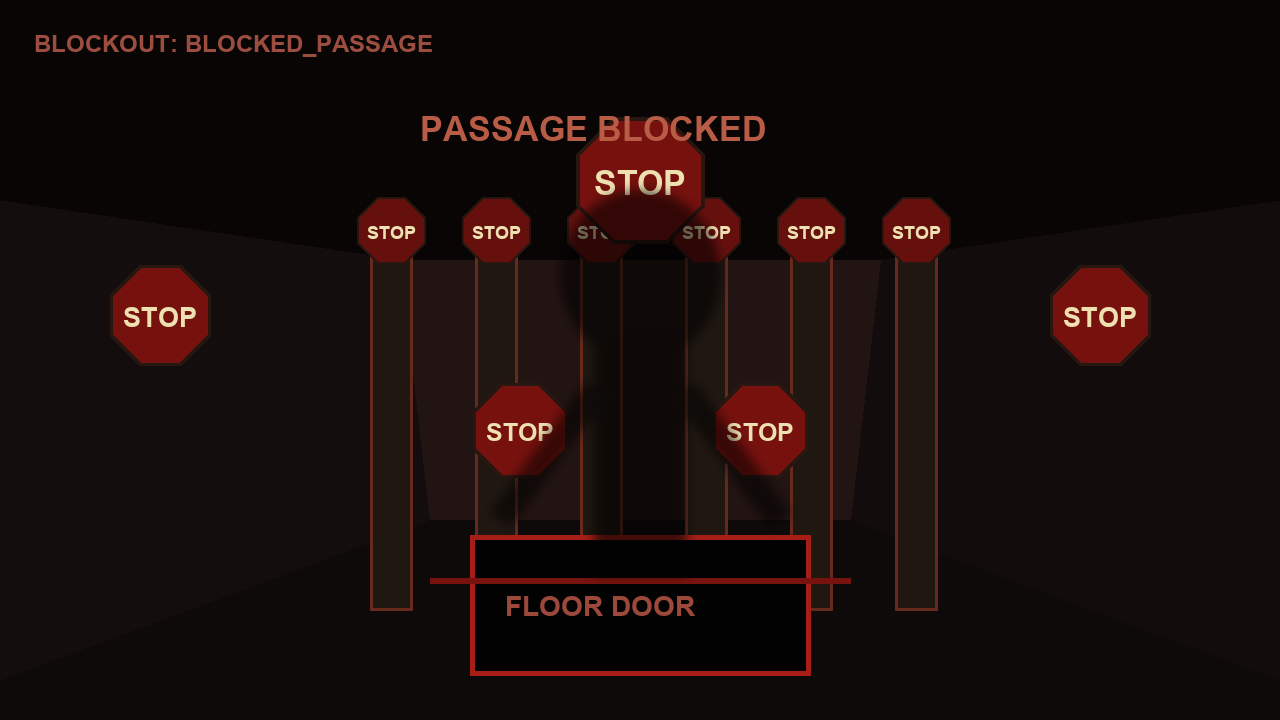
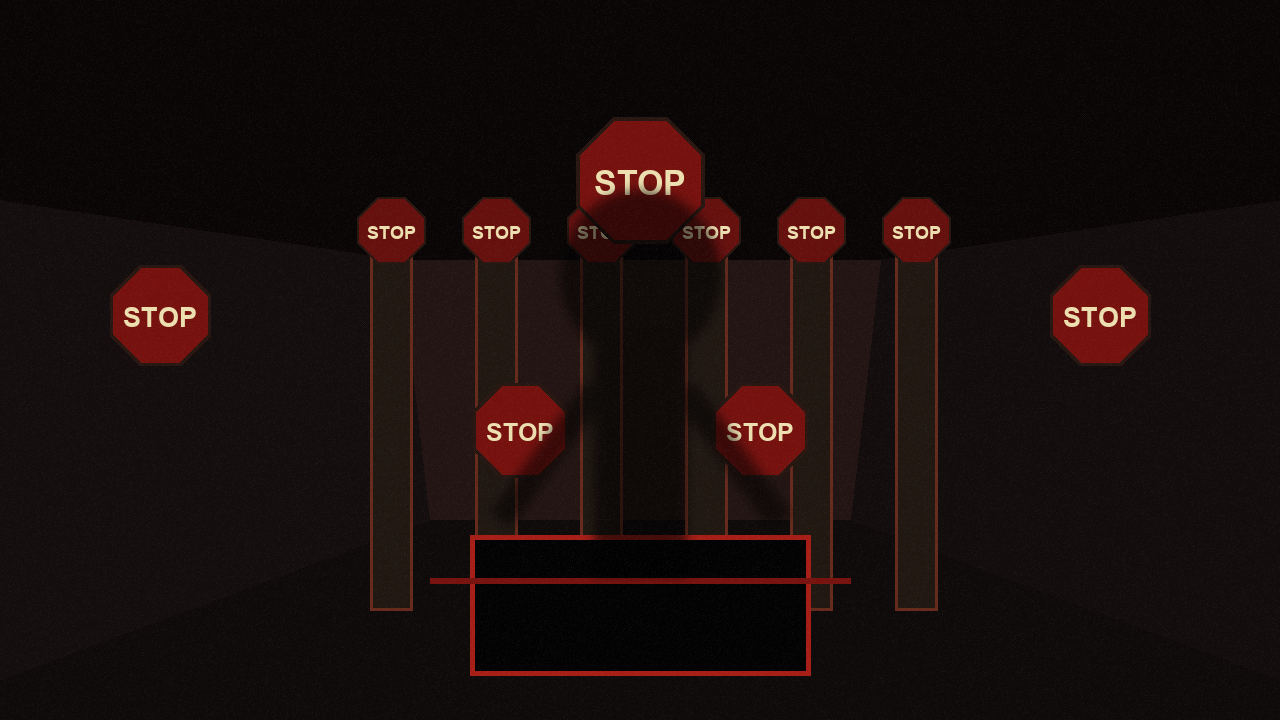
Polish placeholder visuals

Changed region(s): [[0.0312, 0.0306, 0.3438, 0.0917], [0.3125, 0.1528, 0.5938, 0.2139], [0.375, 0.825, 0.5625, 0.8556]]

diff --git a/tools/generate_assets.py b/tools/generate_assets.py
@@ -14,14 +14,14 @@ IMAGES = ROOT / "assets" / "images"
 AUDIO = ROOT / "assets" / "audio"
 W, H = 1280, 720
 
-# Current visual mode is intentionally a blockout. Final image style should be
-# applied in one pass after the room flow and object placement are approved.
-BG = (10, 10, 11)
-FLOOR = (32, 32, 34)
-WALL = (46, 46, 48)
-LINE = (92, 92, 96)
+# Current visual mode is a polished placeholder: positions stay readable, but
+# obvious blockout labels are removed so playtesting focuses on mood and flow.
+BG = (18, 17, 13)
+FLOOR = (72, 68, 48)
+WALL = (112, 104, 70)
+LINE = (126, 113, 76)
 DARK = (2, 2, 3)
-HOT = (188, 176, 112)
+HOT = (214, 199, 128)
 RED = (126, 20, 18)
 
 
@@ -39,12 +39,44 @@ def font(size: int) -> ImageFont.FreeTypeFont | ImageFont.ImageFont:
     return ImageFont.load_default()
 
 
-def text_center(draw: ImageDraw.ImageDraw, box: tuple[int, int, int, int], text: str, size: int = 32) -> None:
+def text_center(draw: ImageDraw.ImageDraw, box: tuple[int, int, int, int], text: str, size: int = 32, fill: tuple[int, int, int] = HOT) -> None:
     fnt = font(size)
     bbox = draw.textbbox((0, 0), text, font=fnt)
     x = box[0] + (box[2] - box[0] - (bbox[2] - bbox[0])) / 2
     y = box[1] + (box[3] - box[1] - (bbox[3] - bbox[1])) / 2
-    draw.text((x, y), text, fill=HOT, font=fnt)
+    draw.text((x, y), text, fill=fill, font=fnt)
+
+
+def add_grain(img: Image.Image, seed: int, opacity: int = 18) -> Image.Image:
+    rng = random.Random(seed)
+    overlay = Image.new("RGBA", (W, H), (0, 0, 0, 0))
+    pix = overlay.load()
+    for y in range(H):
+        for x in range(W):
+            if (x + y) % 2 == 0:
+                v = rng.randrange(0, 255)
+                pix[x, y] = (v, v, v, rng.randrange(0, opacity))
+    return Image.alpha_composite(img.convert("RGBA"), overlay).convert("RGB")
+
+
+def stable_seed(text: str) -> int:
+    return sum((index + 1) * ord(char) for index, char in enumerate(text)) % 100000
+
+
+def soft_glow(draw: ImageDraw.ImageDraw, box: tuple[int, int, int, int], color: tuple[int, int, int, int], radius: int = 26) -> None:
+    x1, y1, x2, y2 = box
+    for step in range(radius, 0, -5):
+        alpha = max(8, int(color[3] * step / radius * 0.35))
+        draw.rounded_rectangle((x1 - step, y1 - step, x2 + step, y2 + step), radius=4, fill=(color[0], color[1], color[2], alpha))
+
+
+def draw_fluorescent(draw: ImageDraw.ImageDraw, box: tuple[int, int, int, int]) -> None:
+    x1, y1, x2, y2 = box
+    for pad, color in [(30, (92, 86, 52)), (20, (118, 108, 65)), (10, (148, 136, 82))]:
+        draw.rounded_rectangle((x1 - pad, y1 - pad, x2 + pad, y2 + pad), radius=6, fill=color)
+    draw.rounded_rectangle(box, radius=3, fill=(224, 220, 170), outline=(250, 244, 188), width=2)
+    for x in range(x1 + 8, x2 - 4, 14):
+        draw.line((x, y1 + 3, x, y2 - 3), fill=(172, 164, 112), width=1)
 
 
 def blockout_room(label: str = "") -> tuple[Image.Image, ImageDraw.ImageDraw]:
@@ -55,28 +87,31 @@ def blockout_room(label: str = "") -> tuple[Image.Image, ImageDraw.ImageDraw]:
     back_wall = [(440, 260), (840, 260), (825, 455), (455, 455)]
     right_wall = [(840, 260), (W, 205), (W, 520), (825, 455)]
     floor = [(0, 520), (455, 455), (825, 455), (W, 520), (W, H), (0, H)]
-    draw.polygon(ceiling, fill=(24, 24, 26))
-    draw.polygon(left_wall, fill=WALL)
-    draw.polygon(back_wall, fill=(56, 56, 58))
-    draw.polygon(right_wall, fill=(38, 38, 40))
+    draw.polygon(ceiling, fill=(68, 63, 45))
+    draw.polygon(left_wall, fill=(112, 105, 70))
+    draw.polygon(back_wall, fill=(126, 118, 78))
+    draw.polygon(right_wall, fill=(92, 86, 58))
     draw.polygon(floor, fill=FLOOR)
-    for x in range(0, W + 1, 160):
-        draw.line((x, H, 640, 455), fill=(55, 55, 58), width=2)
-    for y in range(500, H, 44):
-        draw.line((0, y, W, y), fill=(55, 55, 58), width=2)
+    for x in range(0, W + 1, 92):
+        draw.line((x, H, 640, 455), fill=(82, 78, 55), width=1)
+    for y in range(500, H, 26):
+        draw.line((0, y, W, y), fill=(82, 78, 55), width=1)
     for x in range(80, W, 160):
-        draw.line((x, 0, 640, 260), fill=(48, 48, 51), width=2)
+        draw.line((x, 0, 640, 260), fill=(92, 86, 60), width=2)
     for y in range(45, 230, 45):
-        draw.line((0, y, W, y), fill=(48, 48, 51), width=2)
-    draw.rectangle((520, 110, 760, 140), fill=(150, 145, 105), outline=HOT, width=3)
-    if label:
-        draw.text((34, 30), label, fill=(130, 130, 136), font=font(24))
-    return img, draw
+        draw.line((0, y, W, y), fill=(92, 86, 60), width=2)
+    for x in range(75, W, 130):
+        draw.line((x, 212, x + 22, 512), fill=(104, 96, 64), width=1)
+    draw_fluorescent(draw, (520, 110, 760, 140))
+    draw_fluorescent(draw, (215, 150, 350, 174))
+    draw_fluorescent(draw, (930, 150, 1065, 174))
+    img = add_grain(img, stable_seed(label), 14)
+    return img, ImageDraw.Draw(img)
 
 
 def doorway(draw: ImageDraw.ImageDraw, box: tuple[int, int, int, int], label: str = "") -> None:
     x1, y1, x2, y2 = box
-    draw.rectangle((x1 - 12, y1 - 12, x2 + 12, y2 + 12), fill=(78, 78, 82), outline=LINE, width=3)
+    draw.rectangle((x1 - 12, y1 - 12, x2 + 12, y2 + 12), fill=(84, 76, 54), outline=LINE, width=3)
     draw.rectangle(box, fill=DARK)
 
 
@@ -85,7 +120,8 @@ def arrow_path(draw: ImageDraw.ImageDraw, side: str, label: str) -> None:
         poly = [(60, 355), (330, 285), (445, 455), (0, 620)]
     else:
         poly = [(950, 285), (1220, 355), (1280, 620), (835, 455)]
-    draw.polygon(poly, fill=(4, 4, 5), outline=LINE)
+    draw.polygon(poly, fill=(7, 6, 5), outline=(94, 86, 58))
+    draw.line(poly + [poly[0]], fill=(46, 40, 30), width=4)
 
 
 def red_trace(draw: ImageDraw.ImageDraw) -> None:
@@ -119,12 +155,10 @@ def stop_sign_shape(draw: ImageDraw.ImageDraw, cx: int, cy: int, radius: int, al
 def scene_fork_stop() -> Image.Image:
     img, draw = blockout_room("BLOCKOUT: FORK_STOP")
     draw.rectangle((455, 45, 825, 230), fill=(0, 0, 0), outline=(76, 58, 40), width=3)
-    text_center(draw, (455, 45, 825, 118), "STOP BACK", 28)
+    draw.rectangle((472, 64, 808, 225), fill=(1, 1, 1))
     arrow_path(draw, "left", "LEFT")
     arrow_path(draw, "right", "RIGHT")
     red_trace(draw)
-    draw.text((120, 320), "LEFT", fill=HOT, font=font(34))
-    draw.text((1010, 320), "RIGHT", fill=HOT, font=font(34))
     return img
 
 
@@ -150,10 +184,9 @@ def scene_stop_back_dark() -> Image.Image:
     draw = ImageDraw.Draw(img)
     for y in range(0, H, 48):
         draw.line((0, y, W, y), fill=(8, 8, 10), width=1)
-    draw.rectangle((0, 0, 270, H), fill=(5, 5, 6), outline=(34, 34, 38), width=2)
-    draw.text((34, 30), "BLOCKOUT: STOP_BACK_DARK", fill=(72, 72, 78), font=font(24))
-    draw.text((44, H // 2 - 20), "BACK", fill=(92, 92, 96), font=font(30))
-    return img
+    draw.rectangle((0, 0, 270, H), fill=(4, 4, 5), outline=(34, 34, 38), width=2)
+    draw.rectangle((18, 120, 250, 640), fill=(2, 2, 3), outline=(22, 22, 25), width=2)
+    return add_grain(img, 3001, 10)
 
 
 def scene_stop_back_red() -> Image.Image:
@@ -166,10 +199,8 @@ def scene_stop_back_red() -> Image.Image:
     draw.rectangle((0, 0, 270, H), fill=(8, 5, 5), outline=(70, 22, 18), width=2)
     draw.ellipse((435, 155, 845, 565), fill=(96, 14, 12), outline=(176, 32, 22), width=6)
     draw.rectangle((500, 210, 780, 520), fill=(20, 0, 0), outline=(210, 54, 36), width=5)
-    text_center(draw, (500, 210, 780, 520), "RED GAP", 36)
-    draw.text((34, 30), "BLOCKOUT: STOP_BACK_RED", fill=(146, 68, 56), font=font(24))
-    draw.text((44, H // 2 - 20), "BACK", fill=(136, 72, 62), font=font(30))
-    return img
+    draw.rectangle((18, 120, 250, 640), fill=(8, 3, 3), outline=(70, 22, 18), width=2)
+    return add_grain(img, 3002, 16)
 
 
 def scene_left_blood_path() -> Image.Image:
@@ -196,17 +227,14 @@ def scene_left_blood_path() -> Image.Image:
     blood.polygon([(438, 650), (512, 622), (592, 638), (542, 676), (468, 688)], fill=(78, 0, 0, 145))
     overlay = overlay.filter(ImageFilter.GaussianBlur(1.1))
     img = Image.alpha_composite(img.convert("RGBA"), overlay).convert("RGB")
-    draw = ImageDraw.Draw(img)
-    draw.text((330, 590), "DRAG TRACE", fill=(190, 70, 62), font=font(28))
     return img
 
 
 def scene_left_switch_room() -> Image.Image:
     img, draw = blockout_room("BLOCKOUT: LEFT_SWITCH_ROOM")
-    draw.rectangle((520, 250, 760, 475), fill=(34, 34, 38), outline=LINE, width=4)
-    draw.rectangle((576, 305, 704, 420), fill=(16, 16, 18), outline=HOT, width=5)
+    draw.rectangle((520, 250, 760, 475), fill=(70, 64, 48), outline=LINE, width=4)
+    draw.rectangle((576, 305, 704, 420), fill=(19, 17, 14), outline=HOT, width=5)
     draw.ellipse((618, 338, 662, 382), fill=(114, 28, 20), outline=(220, 80, 52), width=4)
-    text_center(draw, (520, 430, 760, 500), "LIGHT BUTTON", 24)
     draw.line((320, 610, 470, 560), fill=RED, width=8)
     return img
 
@@ -221,25 +249,25 @@ def scene_right_panel_path() -> Image.Image:
     draw.line((625, 340, 672, 420), fill=(12, 12, 14), width=18)
     draw.line((603, 430, 570, 525), fill=(12, 12, 14), width=18)
     draw.line((617, 430, 650, 525), fill=(12, 12, 14), width=18)
-    text_center(draw, (500, 560, 720, 615), "PANEL", 24)
     return img
 
 
 def scene_right_dead_end() -> Image.Image:
     img, draw = blockout_room("BLOCKOUT: RIGHT_DEAD_END")
-    draw.rectangle((360, 200, 920, 610), fill=(58, 58, 62), outline=LINE, width=5)
-    draw.line((380, 240, 900, 590), fill=(36, 36, 40), width=5)
-    draw.line((900, 240, 380, 590), fill=(36, 36, 40), width=5)
-    text_center(draw, (430, 340, 850, 460), "DEAD END", 48)
+    draw.rectangle((360, 200, 920, 610), fill=(92, 86, 59), outline=LINE, width=5)
+    for x in range(390, 900, 78):
+        draw.rectangle((x, 218, x + 42, 596), fill=(74, 67, 45), outline=(52, 46, 32), width=2)
+    draw.line((380, 240, 900, 590), fill=(42, 34, 24), width=10)
+    draw.line((900, 240, 380, 590), fill=(42, 34, 24), width=10)
     return img
 
 
 def scene_true_exit_room() -> Image.Image:
     img, draw = blockout_room("BLOCKOUT: TRUE_EXIT_ROOM")
-    draw.rectangle((455, 135, 825, 650), fill=(88, 88, 82), outline=(220, 205, 138), width=8)
-    draw.rectangle((505, 190, 775, 635), fill=(190, 186, 150), outline=(240, 226, 158), width=5)
-    draw.rectangle((520, 92, 760, 140), fill=(20, 72, 42), outline=HOT, width=4)
-    text_center(draw, (520, 92, 760, 140), "EXIT", 34)
+    draw.rectangle((455, 135, 825, 650), fill=(92, 86, 60), outline=(220, 205, 138), width=8)
+    draw.rectangle((505, 190, 775, 635), fill=(198, 193, 150), outline=(240, 226, 158), width=5)
+    draw.ellipse((735, 400, 755, 420), fill=(70, 56, 34))
+    draw.rectangle((520, 92, 760, 140), fill=(214, 205, 150), outline=HOT, width=4)
     return img
 
 
@@ -256,8 +284,7 @@ def scene_false_exit_room() -> Image.Image:
     floor_hatch = [(470, 625), (810, 625), (920, 715), (360, 715)]
     draw.polygon(floor_hatch, fill=(3, 3, 4), outline=(150, 32, 24))
     draw.line((430, 670, 850, 670), fill=(98, 20, 16), width=5)
-    draw.text((34, 30), "BLOCKOUT: FALSE_EXIT_STOP_ROOM", fill=(130, 88, 72), font=font(24))
-    return img
+    return add_grain(img, 8001, 12)
 
 
 def scene_blocked_passage() -> Image.Image:
@@ -277,7 +304,6 @@ def scene_blocked_passage() -> Image.Image:
 
     draw.rectangle((470, 535, 810, 675), fill=(2, 2, 3), outline=(166, 30, 22), width=5)
     draw.line((430, 580, 850, 580), fill=(120, 18, 14), width=6)
-    draw.text((505, 590), "FLOOR DOOR", fill=(156, 72, 58), font=font(28))
 
     shadow = Image.new("RGBA", (W, H), (0, 0, 0, 0))
     sdraw = ImageDraw.Draw(shadow)
@@ -287,10 +313,7 @@ def scene_blocked_passage() -> Image.Image:
     sdraw.line((685, 390, 780, 520), fill=(0, 0, 0, 135), width=26)
     shadow = shadow.filter(ImageFilter.GaussianBlur(5.0))
     img = Image.alpha_composite(img.convert("RGBA"), shadow).convert("RGB")
-    draw = ImageDraw.Draw(img)
-    draw.text((34, 30), "BLOCKOUT: BLOCKED_PASSAGE", fill=(155, 78, 64), font=font(24))
-    draw.text((420, 110), "PASSAGE BLOCKED", fill=(184, 92, 70), font=font(34))
-    return img
+    return add_grain(img, 8101, 16)
 
 
 def vignette() -> Image.Image:

diff --git a/docs/PROGRESS.md b/docs/PROGRESS.md
@@ -6,9 +6,9 @@
 
 방 흐름과 상호작용 구조가 승인되기 전에는 시각 디테일을 다듬지 않는다.
 
-현재 시각 단계: 블록아웃 placeholder.
+현재 시각 단계: polished placeholder.
 
-현재 기획 단계: GDD v2 승인 완료, v2.1 블록아웃 구현/검증 단계.
+현재 기획 단계: GDD v2 승인 완료, v2.3 폴리싱 구현/검증 단계.
 
 검토 대상:
 
@@ -64,6 +64,8 @@
 | 2026-06-13 | 카메라-진행은 보류한다. | 2분 터치 게임의 현재 구조를 흐리지 않기 위해. |
 | 2026-06-13 | B 직전 크리처 강도는 유지한다. | 현재 추격감 방향을 유지한 채 길목 차단/전환 프레임으로 보강하기 위해. |
 | 2026-06-13 | B 엔딩 전 `blocked_passage` transition frame을 추가했다. | 단서 부족 상태에서 플레이어가 가짜 출구를 자의로 고른 것이 아니라 길목이 막혀 내몰린 느낌을 주기 위해. |
+| 2026-06-13 | 개발용 hotspot overlay를 기본 OFF로 바꿨다. | 폴리싱 리뷰에서 디버그 박스가 분위기를 가리지 않게 하기 위해. |
+| 2026-06-13 | 블록아웃 영어 라벨을 제거하고 polished placeholder 톤으로 정리했다. | 동선은 유지하면서 최종 실사풍 전 단계의 몰입감을 올리기 위해. |
 
 ## 고도화 방향
 
@@ -153,7 +155,7 @@
 - `src/Game.gd`는 아직 단일 파일 프로토타입이다.
 - `data/rooms.json`이 현재 방 그래프와 hotspot의 중심이다.
 - 이미지는 `tools/generate_assets.py`로 생성한다.
-- 현재 배경은 개발용 블록아웃 label을 좌상단에 포함한다.
+- 현재 배경은 개발용 블록아웃 label을 제거한 polished placeholder다.
 - 현재 배포 빌드는 GDD v2의 8방 구조, v2.1 STOP 표지판 방/출구 조건 변경, v2.2 B 엔딩 전 길목 차단 frame을 포함한다.
 - 기존 `hallway`, `junction`, `sign`, `door`, `other` 자산은 남아 있지만 v2 route에서는 사용하지 않는다.
 - `docs/DEV_REQUIREMENTS.md`는 GDD v2를 실제 구현 단위로 바꾼 기준 문서다.
@@ -162,13 +164,13 @@
 
 ## 다음 리뷰 질문
 
-v2 블록아웃 리뷰 질문:
+v2.3 폴리싱 리뷰 질문:
 
 1. A 엔딩 필수 단서 조건이 너무 쉬워졌는지.
 2. B 엔딩의 "단서 부족 상태에서 크리처에게 쫓겨 들어감"이 플레이로 납득되는지.
 3. STOP 뒤 공간의 첫 진입 안전/연속 재진입 사망이 의도대로 읽히는지.
-4. hotspot overlay 기준으로 클릭 판정이 넉넉한지.
-5. 강화된 핏자국이 최종 이미지 전 블록아웃으로 충분한지.
+4. debug overlay 없이도 클릭 가능한 길/단서가 충분히 읽히는지.
+5. polished placeholder 톤이 최종 실사풍 작업 전 리뷰용으로 충분한지.
 
 ## 다음 추천 작업 패킷
 
@@ -177,7 +179,7 @@ v2 블록아웃 리뷰 질문:
 1. v2.1 blockout build 재배포.
 2. 사용자가 링크에서 A/B/C 흐름과 클릭 판정 리뷰.
 3. `data/rooms.json`에서 hotspot/문구/크리처 beat 조정.
-4. B 엔딩 전 길목 차단 transition frame 플레이 리뷰.
+4. polished placeholder 기준으로 길/단서 가독성 리뷰.
 5. 최종 실사풍 이미지 shot list 작성.
 
 이 항목이 승인되기 전까지 최종 배경 작업은 시작하지 않는다.
